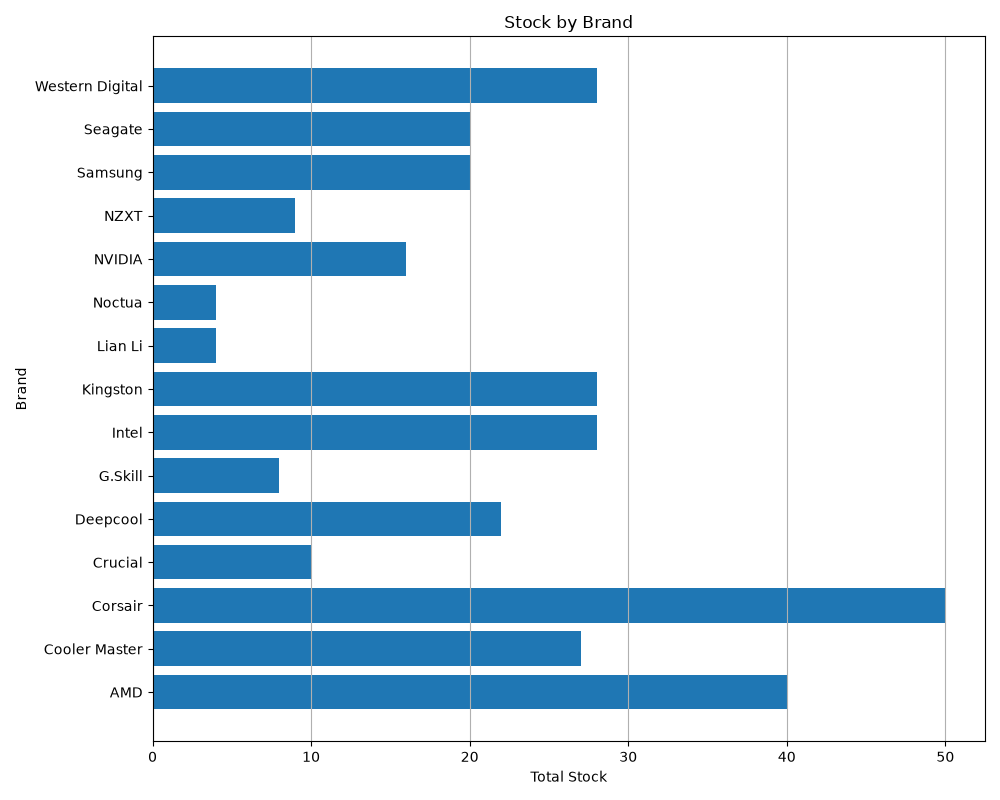
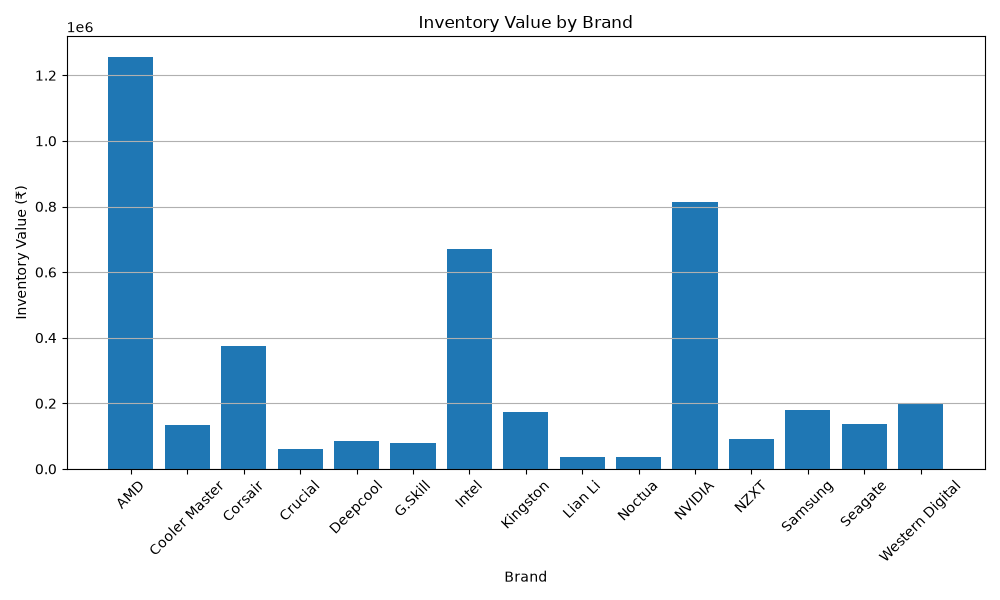
last commit

diff --git a/templates/analytics.html b/templates/analytics.html
@@ -1,4 +1,5 @@
 <!DOCTYPE html>
+
 <html>
 
 <head>
@@ -7,10 +8,13 @@
     <link href="https://cdn.jsdelivr.net/npm/bootstrap@5.3.3/dist/css/bootstrap.min.css" rel="stylesheet">
 
     <link rel="stylesheet" href="{{ url_for('static', filename='style.css') }}">
+
+
 </head>
 
 <body>
 
+    
     <nav class="navbar navbar-expand-lg navbar-dark bg-dark shadow">
 
         <div class="container">
@@ -48,7 +52,7 @@
                     </li>
 
                     <li class="nav-item">
-                        <a class="nav-link" href="/analytics">
+                        <a class="nav-link active" href="/analytics">
                             Analytics
                         </a>
                     </li>
@@ -70,36 +74,130 @@
     <div class="container mt-5">
 
         <h1 class="text-center mb-4">
-            Inventory Analytics
+            📈 Inventory Analytics
         </h1>
+
+        <div class="card shadow mb-4">
+
+            <div class="card-body text-center">
+
+                <h4>
+                    Analytics Overview
+                </h4>
+
+                <p class="text-muted">
+
+                    This analytics dashboard provides insights into
+                    product distribution, inventory value by brand,
+                    and products that require immediate restocking.
+
+                </p>
+
+            </div>
+
+        </div>
+
+        <div class="alert alert-info text-center">
+
+            <strong>Insight:</strong>
+
+            Analytics help identify inventory distribution,
+            inventory value and low stock products.
+
+        </div>
 
         <div class="row">
 
-            <div class="col-md-6">
+            <div class="col-md-6 mb-4">
 
-                <div class="card shadow p-3">
+                <div class="card analytics-card h-100 p-3">
 
                     <h4 class="text-center">
-                        Products by Category
+                        📊 Products by Category
                     </h4>
 
                     <img src="{{ url_for('static', filename='category_graph.png') }}" class="img-fluid">
+
+                    <p class="text-muted text-center mt-3">
+
+                        Shows how products are distributed across
+                        different categories.
+
+                    </p>
 
                 </div>
 
             </div>
 
-            <div class="col-md-6">
+            <div class="col-md-6 mb-4">
 
-                <div class="card shadow p-3">
+                <div class="card analytics-card h-100 p-3">
 
                     <h4 class="text-center">
-                        Stock by Brand
+                        💰 Inventory Value by Brand
                     </h4>
 
                     <img src="{{ url_for('static', filename='brand_graph.png') }}" class="img-fluid">
 
+                    <p class="text-muted text-center mt-3">
+
+                        Displays total inventory value held by
+                        each brand.
+
+                    </p>
+
                 </div>
+
+            </div>
+
+        </div>
+
+        <div class="row">
+
+            <div class="col-md-12">
+
+                <div class="card analytics-card p-3">
+
+                    <h4 class="text-center">
+                        ⚠ Low Stock Products
+                    </h4>
+
+                    <img src="{{ url_for('static', filename='low_stock_graph.png') }}" class="img-fluid">
+
+                    <p class="text-muted text-center mt-3">
+
+                        Products with stock below 5 units that
+                        may require immediate replenishment.
+
+                    </p>
+
+                </div>
+
+            </div>
+
+        </div>
+
+        <div class="card shadow mt-4">
+
+            <div class="card-body">
+
+                <h5>
+                    🚀 Future Scope
+                </h5>
+
+                <ul>
+
+                    <li>Monthly inventory trend analysis</li>
+
+                    <li>Automatic stock alerts</li>
+
+                    <li>Inventory forecasting</li>
+
+                    <li>Supplier management integration</li>
+
+                    <li>Sales analytics dashboard</li>
+
+                </ul>
 
             </div>
 
@@ -114,12 +212,15 @@
         </div>
 
     </div>
-
+    
 
     <script src="https://cdn.jsdelivr.net/npm/bootstrap@5.3.3/dist/js/bootstrap.bundle.min.js"></script>
+
     <footer class="text-center mt-5 mb-3 text-muted">
         Hardware Inventory Management System © 2026
     </footer>
+    
+
 </body>
 
 </html>

diff --git a/templates/dashboard.html b/templates/dashboard.html
@@ -5,17 +5,17 @@
 <head>
     <title>Dashboard</title>
 
-```
+
 <link href="https://cdn.jsdelivr.net/npm/bootstrap@5.3.3/dist/css/bootstrap.min.css" rel="stylesheet">
 
 <link rel="stylesheet" href="{{ url_for('static', filename='style.css') }}">
-```
+
 
 </head>
 
 <body>
 
-```
+
 <nav class="navbar navbar-expand-lg navbar-dark bg-dark shadow">
 
     <div class="container">
@@ -192,7 +192,7 @@
 <footer class="text-center mt-5 mb-3 text-muted">
     Hardware Inventory Management System © 2026
 </footer>
-```
+
 
 </body>
 

diff --git a/static/style.css b/static/style.css
@@ -104,3 +104,10 @@ body {
 .dashboard-card-4 {
     border-top: 5px solid #dc3545;
 }
+.analytics-card img{
+    transition: 0.3s;
+}
+
+.analytics-card img:hover{
+    transform: scale(1.03);
+}

diff --git a/app.py b/app.py
@@ -144,68 +144,113 @@ def delete_product(id):
 @app.route("/analytics")
 def analytics():
 
-    # importing pandas
+
     import pandas as pd
-
-    conn = get_connection()
-    query = """SELECT Category,
-                COUNT(*) AS ProductCount
-                FROM Products
-                GROUP BY Category"""
-
-    df = pd.read_sql(query, conn)
-
-    conn.close()
-
-    # importing matplot for graph
     import matplotlib.pyplot as plt
 
-    plt.figure(figsize=(10, 6))
-
-    plt.bar(df["Category"], df["ProductCount"])
-
-    plt.title("Products by Category")
-    plt.xlabel("Category")
-    plt.ylabel("Number of Products")
-
-    plt.grid(axis="y")
-
-    plt.savefig("static/category_graph.png")
-
-    plt.tight_layout()
-
-    plt.close()
-
-    # GRAPH-2
+    # -------------------------
+    # Graph 1 : Products by Category
+    # -------------------------
 
     conn = get_connection()
 
-    query2 = """
-        SELECT Brand,
-        SUM(Quantity) AS TotalStock
+    query1 = """
+        SELECT
+            Category,
+            COUNT(*) AS ProductCount
         FROM Products
-        GROUP BY Brand  """
+        GROUP BY Category
+    """
+
+    df1 = pd.read_sql(query1, conn)
+
+    plt.figure(figsize=(8,5))
+
+    plt.pie(
+        df1["ProductCount"],
+        labels=df1["Category"],
+        autopct="%1.1f%%"
+    )
+
+    plt.title("Products by Category")
+    plt.tight_layout()
+    plt.savefig("static/category_graph.png")
+    
+    plt.close()
+
+# -------------------------
+# Graph 2 : Inventory Value by Brand
+# -------------------------
+
+    query2 = """
+        SELECT
+            Brand,
+            SUM(Price * Quantity) AS InventoryValue
+        FROM Products
+        GROUP BY Brand
+    """
 
     df2 = pd.read_sql(query2, conn)
 
-    conn.close()
+    plt.figure(figsize=(10,6))
 
-    plt.figure(figsize=(10, 8))
+    plt.bar(
+        df2["Brand"],
+        df2["InventoryValue"]
+    )
 
-    plt.barh(df2["Brand"], df2["TotalStock"])
+    plt.title("Inventory Value by Brand")
 
-    plt.title("Stock by Brand")
-    plt.xlabel("Total Stock")
-    plt.ylabel("Brand")
+    plt.xlabel("Brand")
 
-    plt.grid(axis="x")
+    plt.ylabel("Inventory Value (₹)")
+
+    plt.xticks(rotation=45)
+
+    plt.grid(axis="y")
 
     plt.tight_layout()
 
     plt.savefig("static/brand_graph.png")
 
     plt.close()
+
+# -------------------------
+# Graph 3 : Low Stock Products
+# -------------------------
+
+    query3 = """
+        SELECT
+            ProductName,
+            Quantity
+        FROM Products
+        WHERE Quantity < 5
+    """
+
+    df3 = pd.read_sql(query3, conn)
+
+    conn.close()
+
+    plt.figure(figsize=(10,6))
+
+    plt.barh(
+        df3["ProductName"],
+        df3["Quantity"]
+    )
+
+    plt.title("Low Stock Products")
+
+    plt.xlabel("Quantity")
+
+    plt.tight_layout()
+
+    plt.savefig("static/low_stock_graph.png")
+
+    plt.close()
+
     return render_template("analytics.html")
+
+
 
 
 @app.route("/reports")
